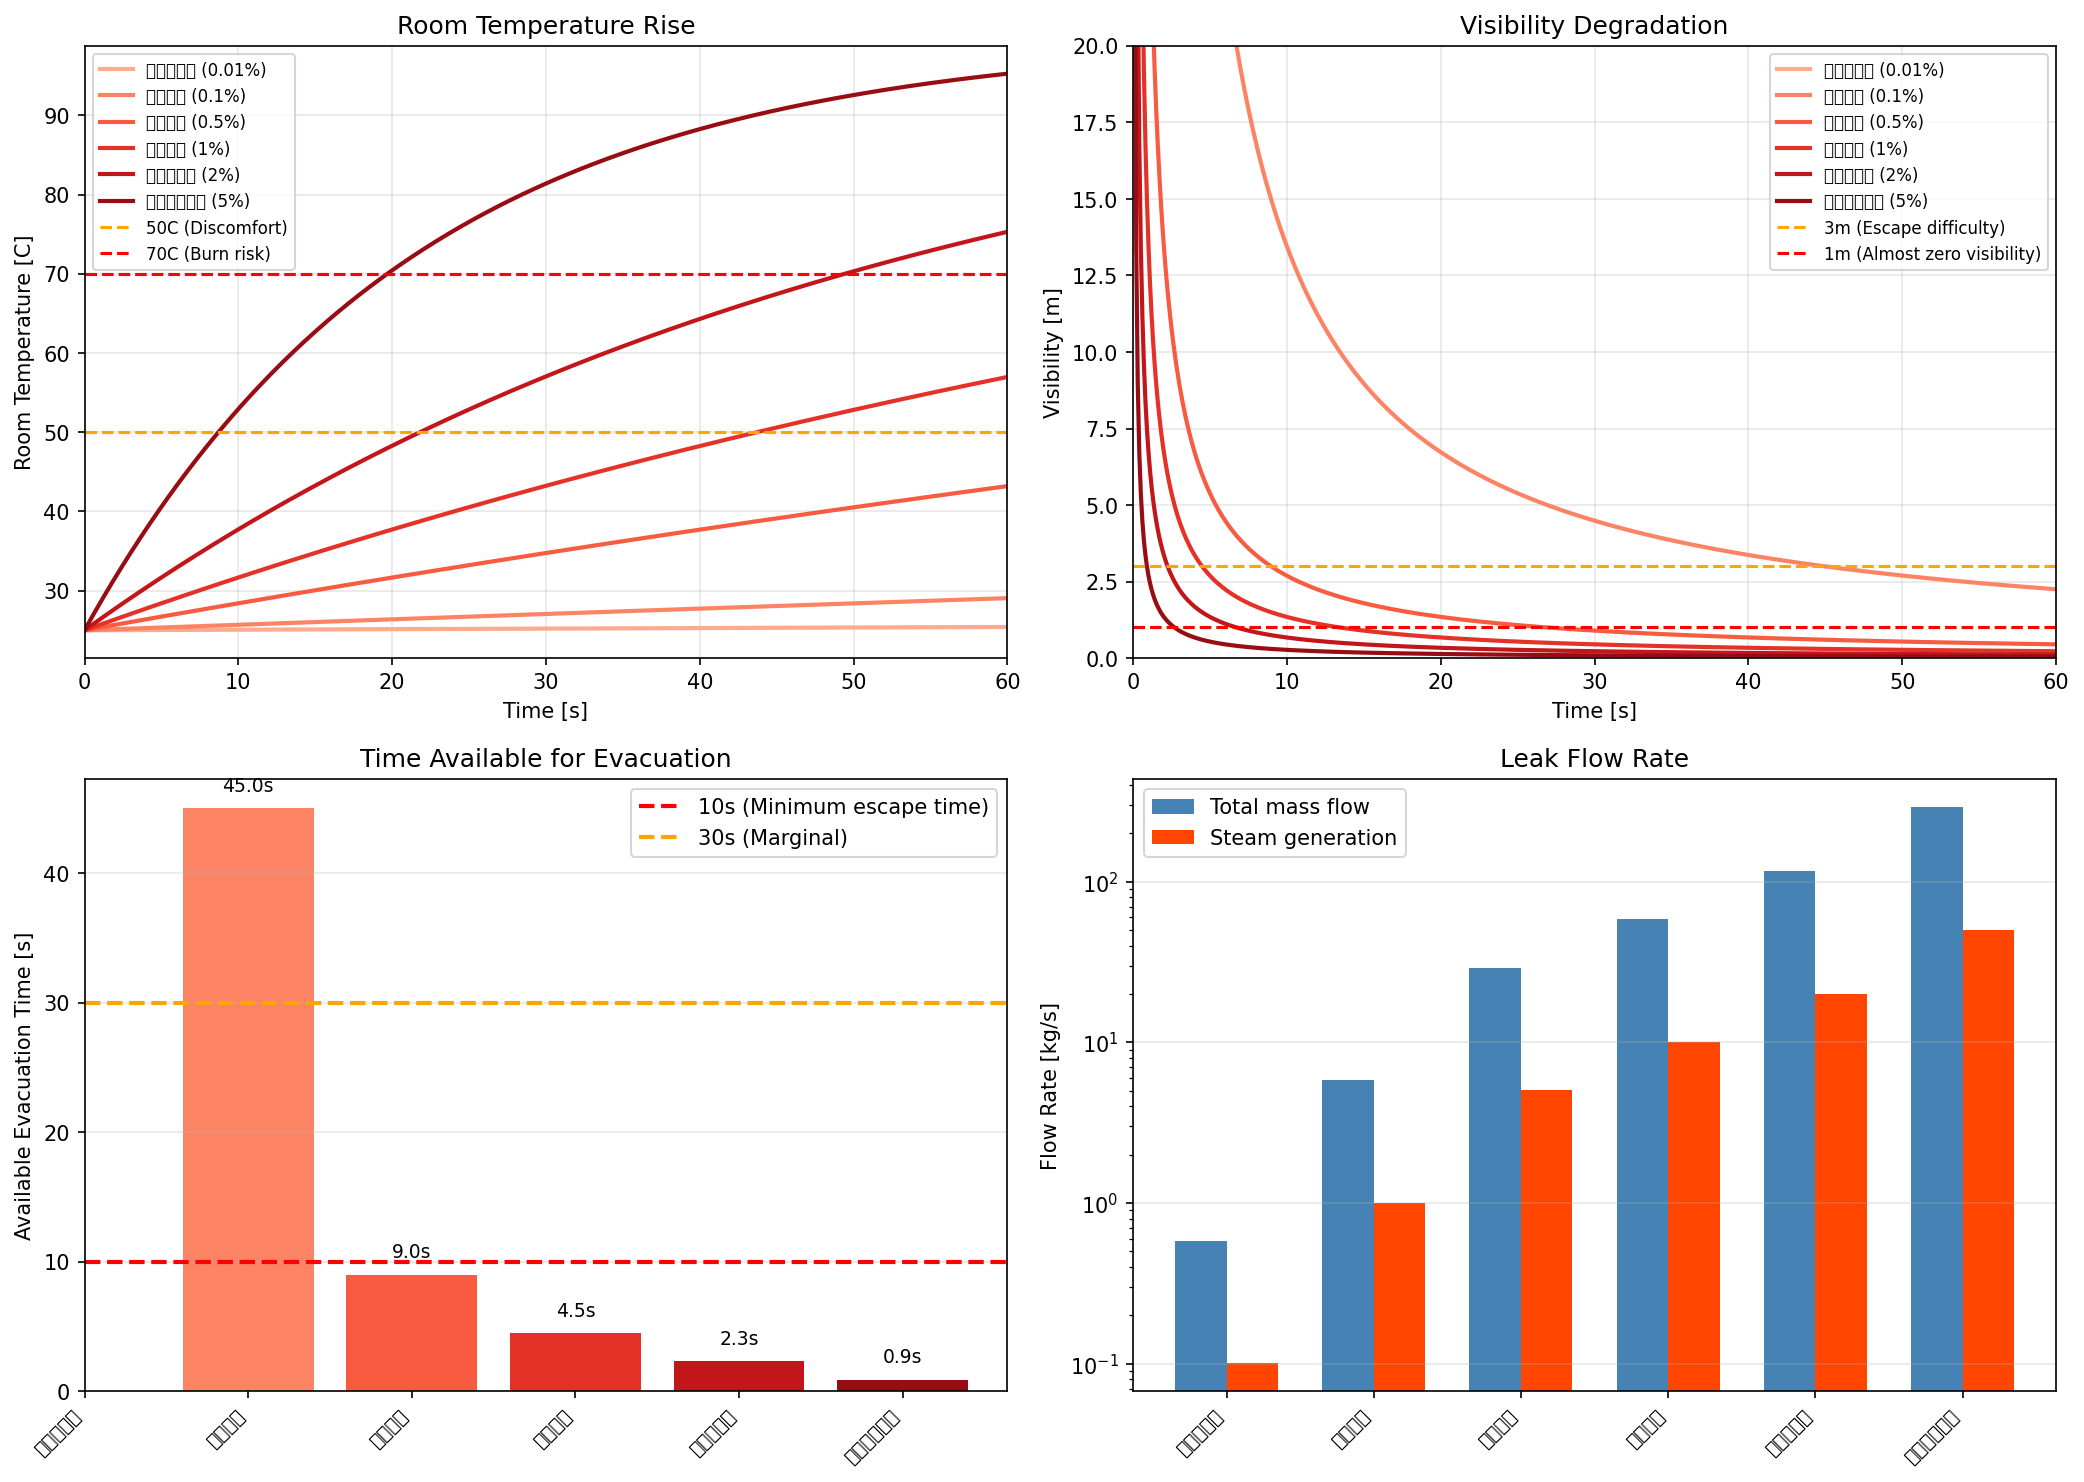
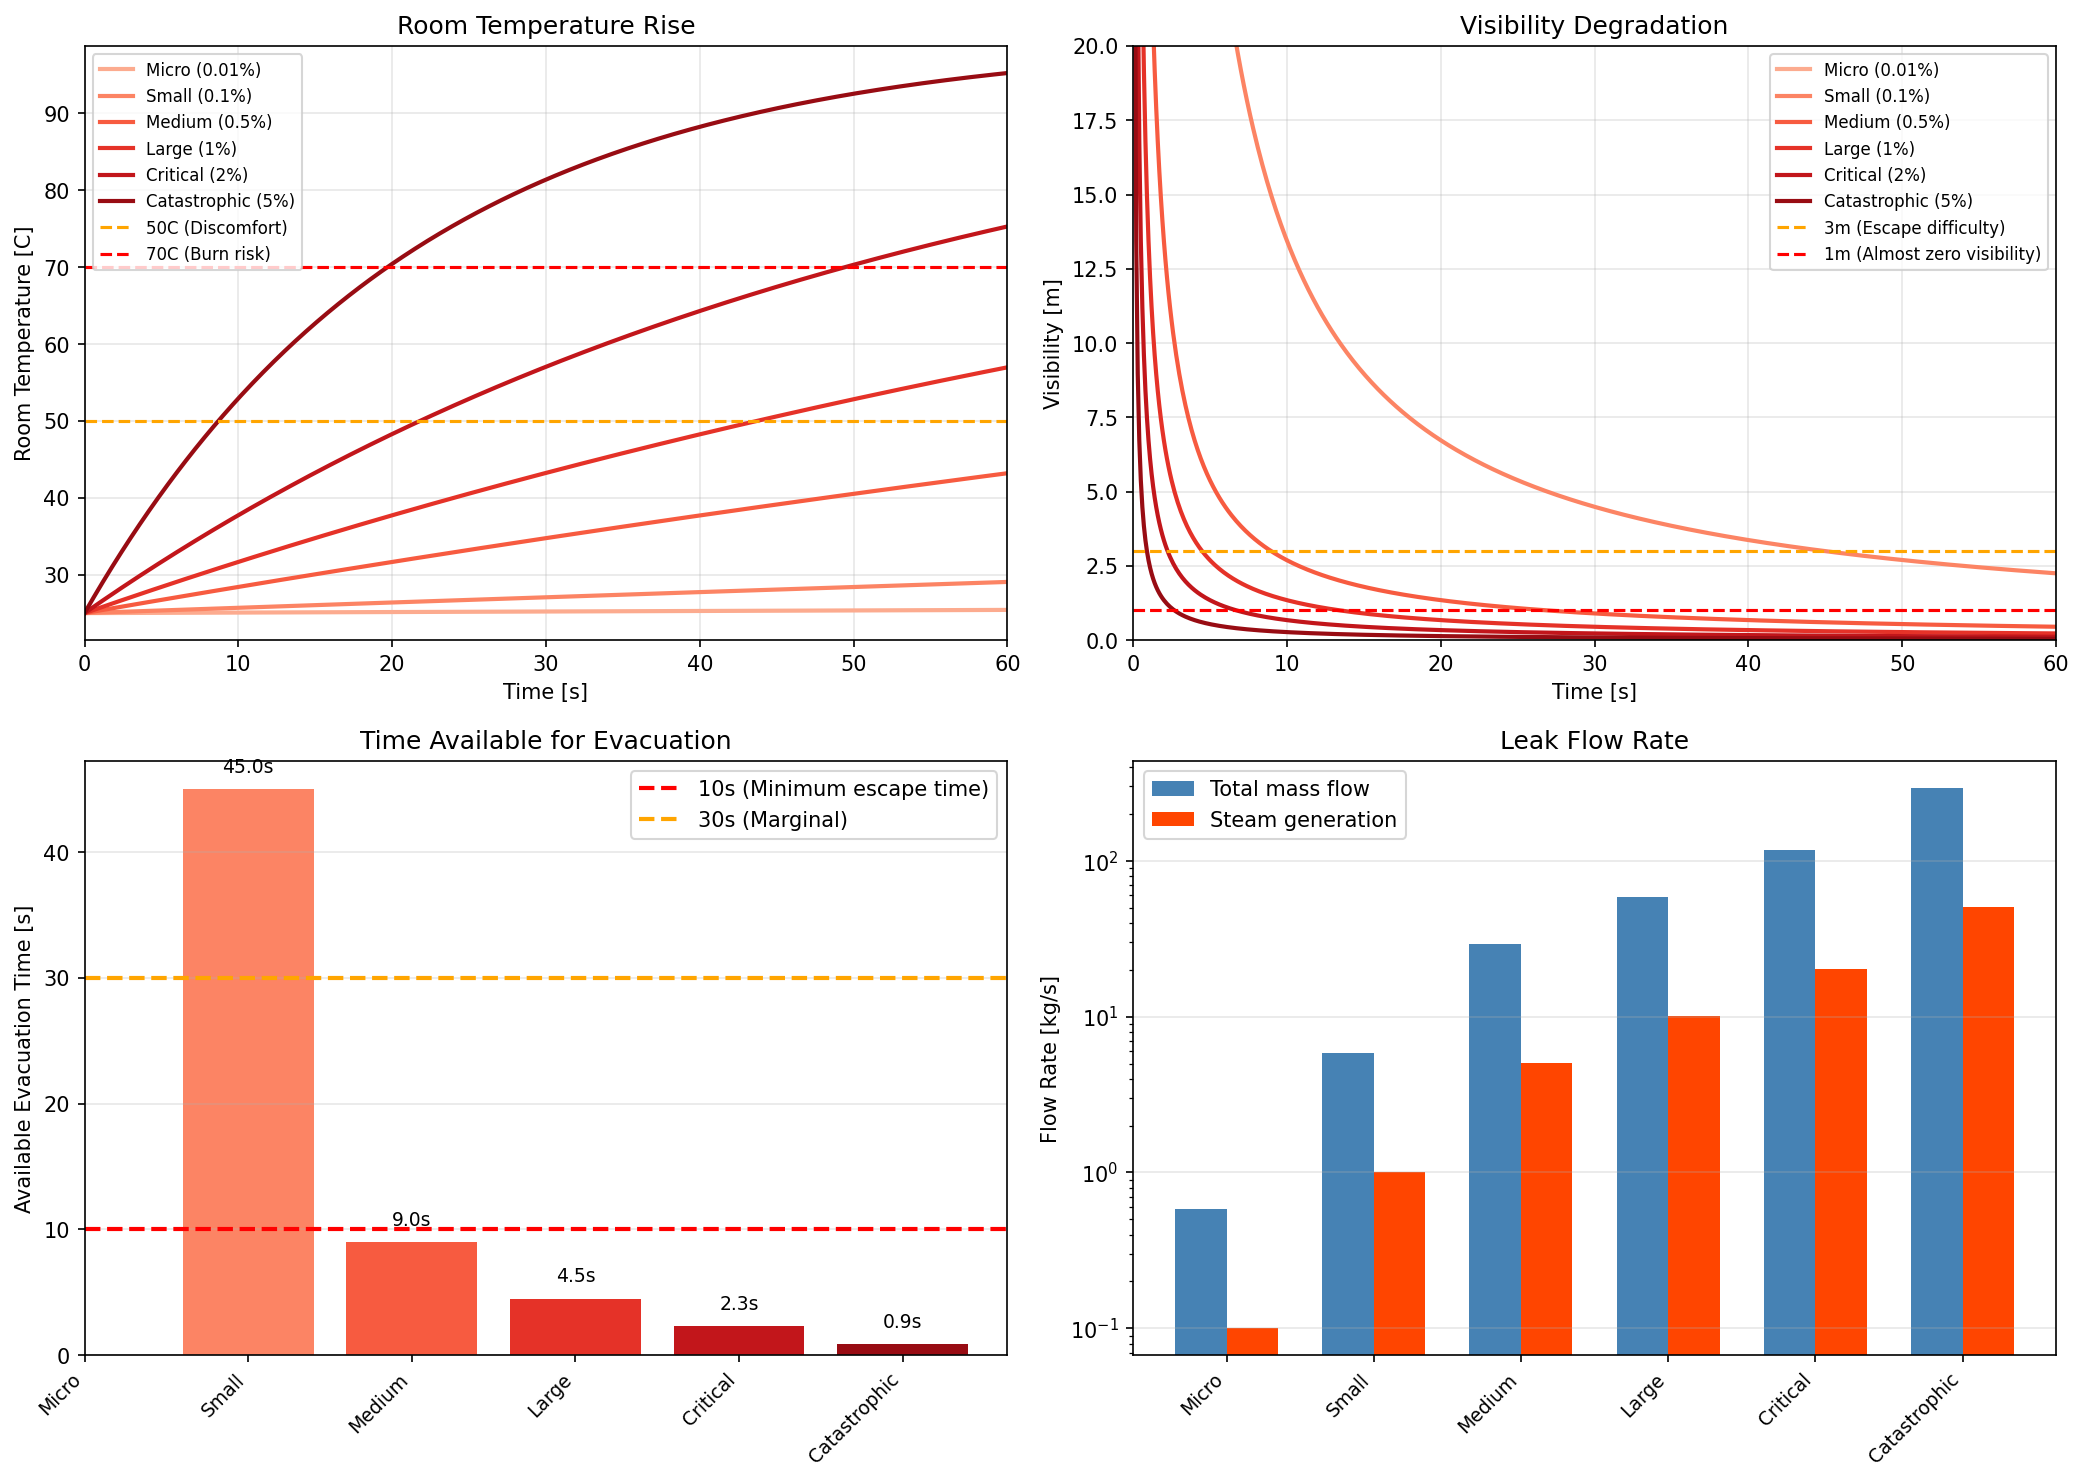
Change case labels to English for graph readability
Japanese characters were not rendering properly in matplotlib graphs.
Switched leak case names to English (Micro, Small, Medium, Large,
Critical, Catastrophic) for better compatibility.

diff --git a/valve_leak_simulation.py b/valve_leak_simulation.py
@@ -93,13 +93,13 @@ def get_leak_cases(valve: ValveSpec) -> List[Tuple[str, float]]:
     full_area = valve.full_area
 
     cases = [
-        # (ケース名, リーク面積 [m²])
-        ("微小リーク (0.01%)", full_area * 0.0001),    # ヘアクラック程度
-        ("小リーク (0.1%)", full_area * 0.001),        # 軽度の弁座損傷
-        ("中リーク (0.5%)", full_area * 0.005),        # 中程度の弁座損傷
-        ("大リーク (1%)", full_area * 0.01),           # 重度の弁座損傷
-        ("重大リーク (2%)", full_area * 0.02),         # 弁座大破損
-        ("壊滅的リーク (5%)", full_area * 0.05),       # シート脱落等
+        # (Case name, Leak area [m²])
+        ("Micro (0.01%)", full_area * 0.0001),      # Hair crack
+        ("Small (0.1%)", full_area * 0.001),        # Minor seat damage
+        ("Medium (0.5%)", full_area * 0.005),       # Moderate seat damage
+        ("Large (1%)", full_area * 0.01),           # Severe seat damage
+        ("Critical (2%)", full_area * 0.02),        # Major seat failure
+        ("Catastrophic (5%)", full_area * 0.05),    # Seat detachment
     ]
 
     return cases
